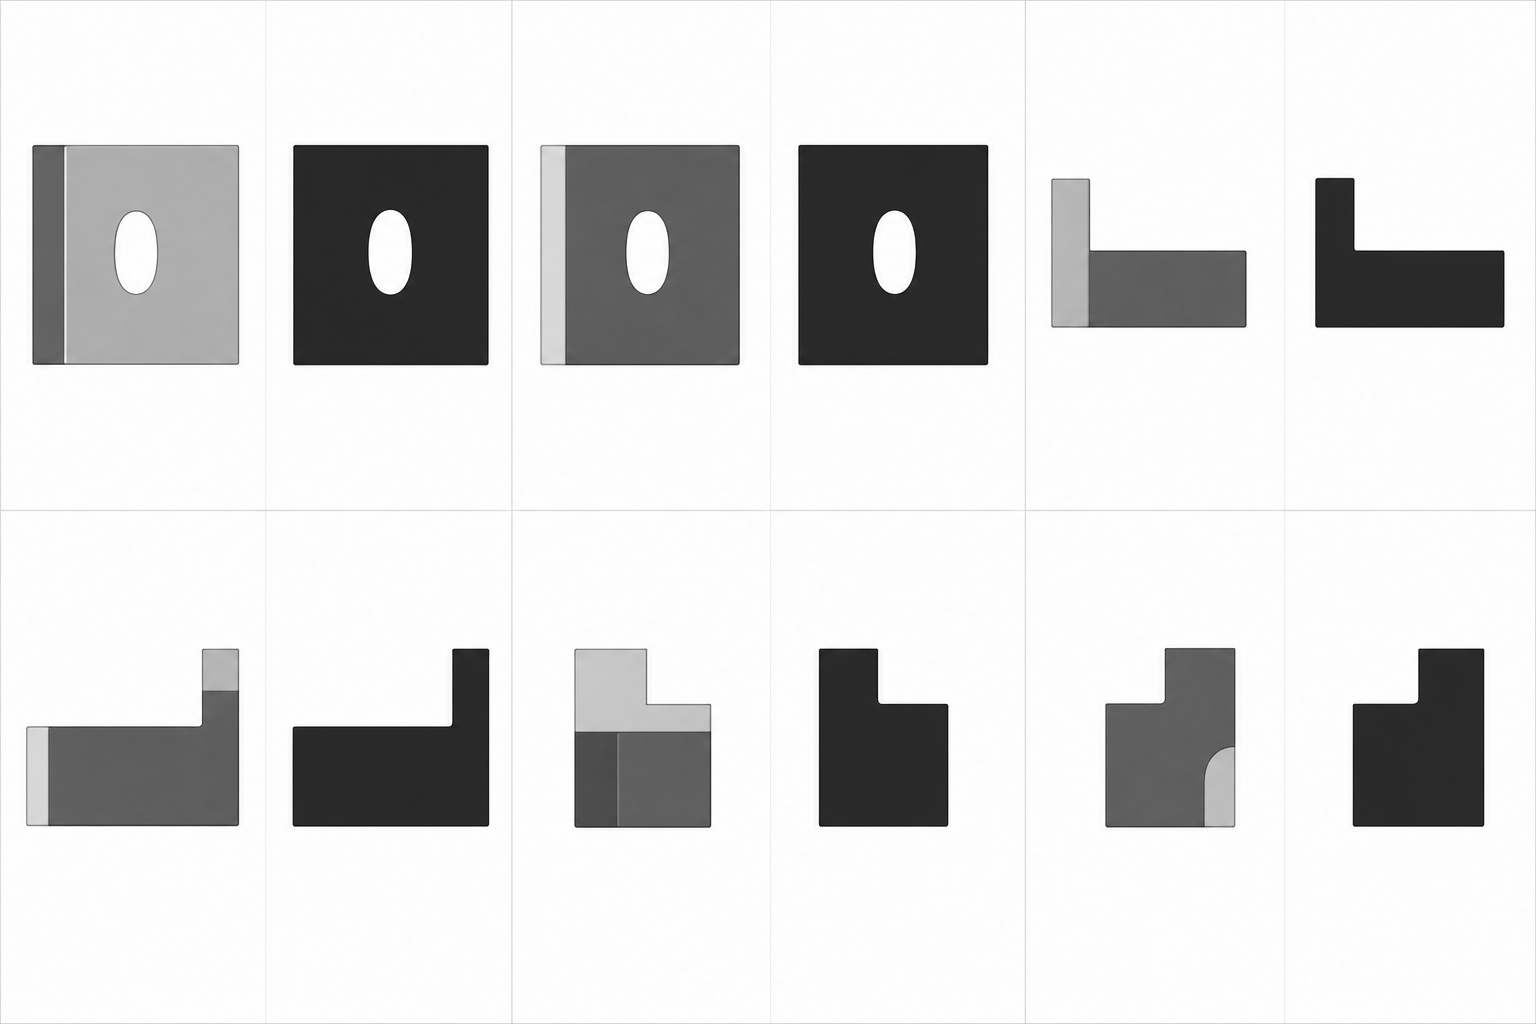
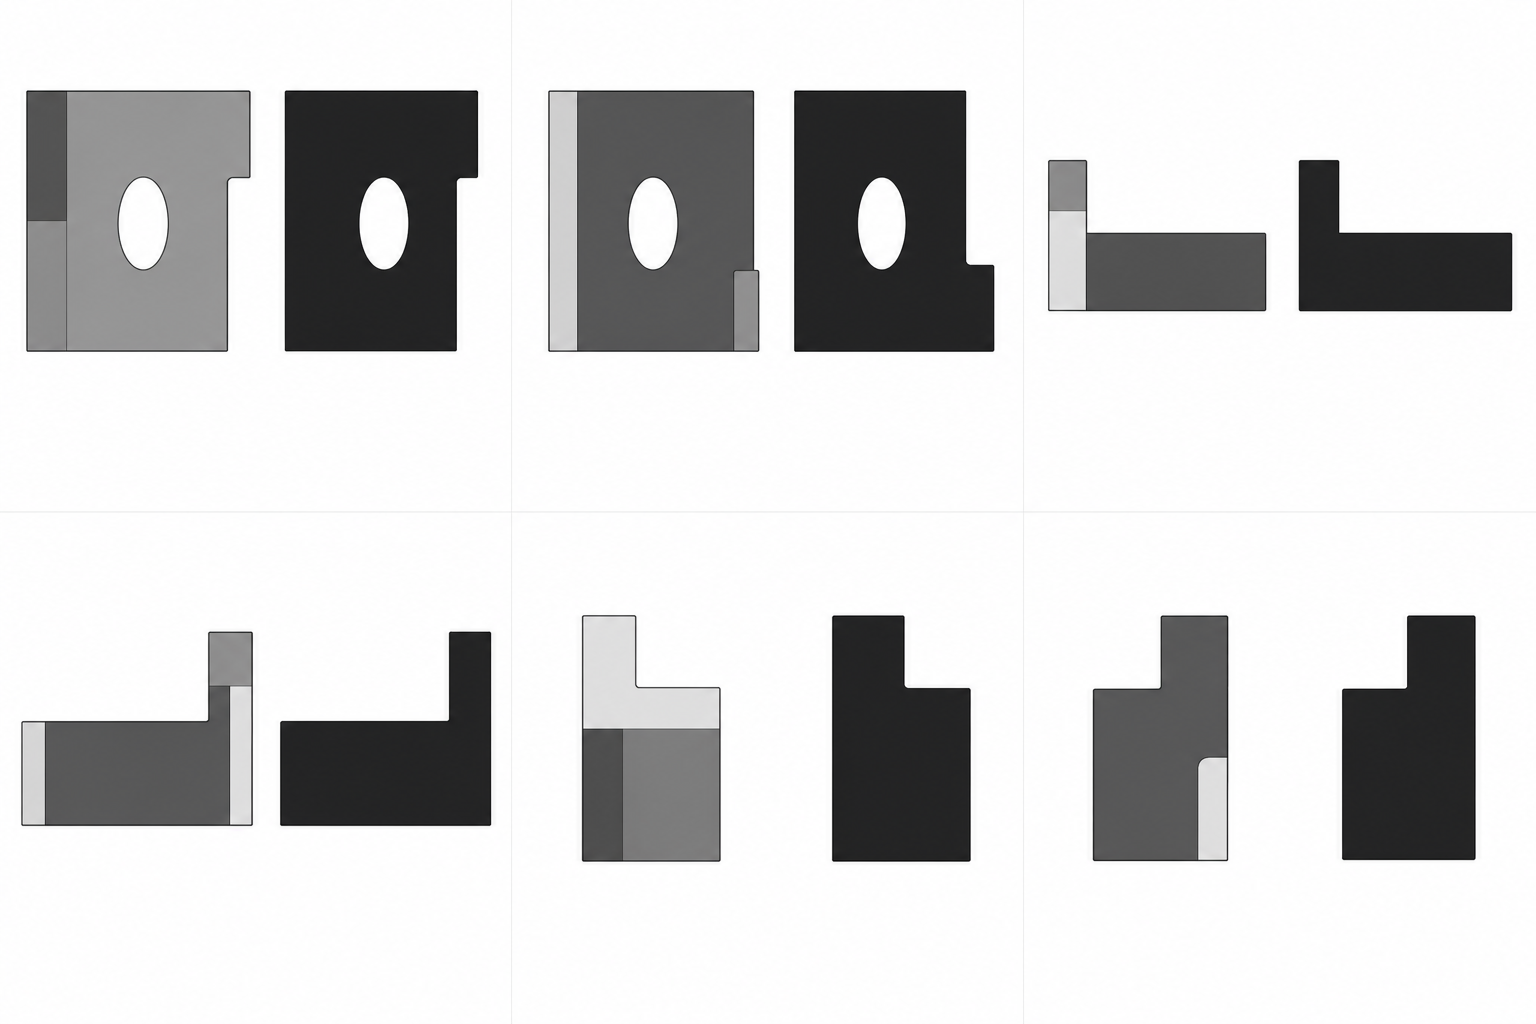
synth-clean: preserve depth bands in left half; resynth 002354
gpt-image-2 was merging distinct height tiers in the depth (left) half of each
cell into a flat gray. Adds an explicit DEPTH HALF section: keep the same
number of gray levels and relative ordering, denoise only within bands,
sharpen boundaries, do not homogenize steps or counterbores.

Updates the gallery blurb to mention depth bands. Regenerates
deepcadimg_002354_geometry_clean.png (L-bracket) with the new prompt.

Made-with: Cursor

diff --git a/frontend/deepcad-selector.html b/frontend/deepcad-selector.html
@@ -179,7 +179,7 @@
 
         const hasClean = cohesion && cohesion.geometry_view_clean;
         if (hasClean) {
-          cleanMeta.innerHTML = '<strong>gpt-image-2 cleanup:</strong> &nbsp;small surface gaps infilled, real holes preserved.';
+          cleanMeta.innerHTML = '<strong>gpt-image-2 cleanup:</strong> &nbsp;silhouette noise infilled and real holes preserved; depth bands (height steps) kept as separate grays.';
         } else {
           cleanMeta.innerHTML = '<strong>gpt-image-2 cleanup:</strong> &nbsp;not yet generated for this sample.';
         }

diff --git a/scripts/synthesize_clean_views.py b/scripts/synthesize_clean_views.py
@@ -199,6 +199,23 @@ Each cell is split into two halves:
 - LEFT half:  grayscale depth render (darker = nearer to camera)
 - RIGHT half: black-on-white silhouette mask of the same view
 
+DEPTH HALF (LEFT) - PRESERVE HEIGHT STEPS AND BANDS. DO NOT FLATTEN.
+The left half encodes surface height: each clearly different brightness level is
+a different coplanar face, step, shoulder, or depth tier (e.g. L-shaped step on
+a top face, counterbore rings, abutting regions at different heights).
+- Keep the SAME NUMBER of distinct gray levels as the input, in the SAME
+  relative order (which tone is darker / lighter must match the input).
+- You may smooth speckle and ragged pixels WITHIN a single band; you may
+  sharpen the boundary BETWEEN two bands; you may straighten step edges that
+  should be axis-aligned. You may NOT merge two or more bands into one
+  uniform gray — that erases engineering depth context the downstream CAD
+  inference needs.
+- If the input shows side-by-side or concentric regions at different grays,
+  the output must still show all of them as separate regions (cleaner edges,
+  same tier count).
+- Only the RIGHT half (silhouette) uses the hole/noise rules below; the LEFT
+  half is for depth fidelity, not for "simplifying away" real geometry.
+
 ABSOLUTE RULE - PRESERVE OVERALL SIZE, POSITION AND PROPORTIONS.
 The size, position and aspect ratio of each silhouette in the input is correct.
 The cleaned output must occupy the same cell, at the same overall scale, with
@@ -263,12 +280,12 @@ NEVER invent symmetric features. If Front + Back show a real bore, keep it
 in Front + Back; do NOT add a matching opening to Right or Left unless those
 views already show one.
 
-When you redraw each silhouette:
-  - Reproduce the outer outline at the SAME size and position as the input.
-  - Fill all noise gaps inside.
-  - Keep the real openings exactly where the input has them.
-  - Make every kept edge crisp and clean (straight where straight, smooth
-    curves where curved).
+When you redraw each cell:
+  - LEFT (depth): preserve all height bands; denoise inside bands only; do not
+    homogenize distinct grays into one flat surface.
+  - RIGHT (silhouette): reproduce the outer outline at the SAME size and
+    position as the input; fill noise gaps inside; keep real openings; make
+    edges crisp (straight where straight, smooth curves where curved).
 
 KEEP the same 3x2 LAYOUT and the same 6 views in the same positions. KEEP the
 depth-then-silhouette internal split of each cell. Use grayscale only. Do NOT
